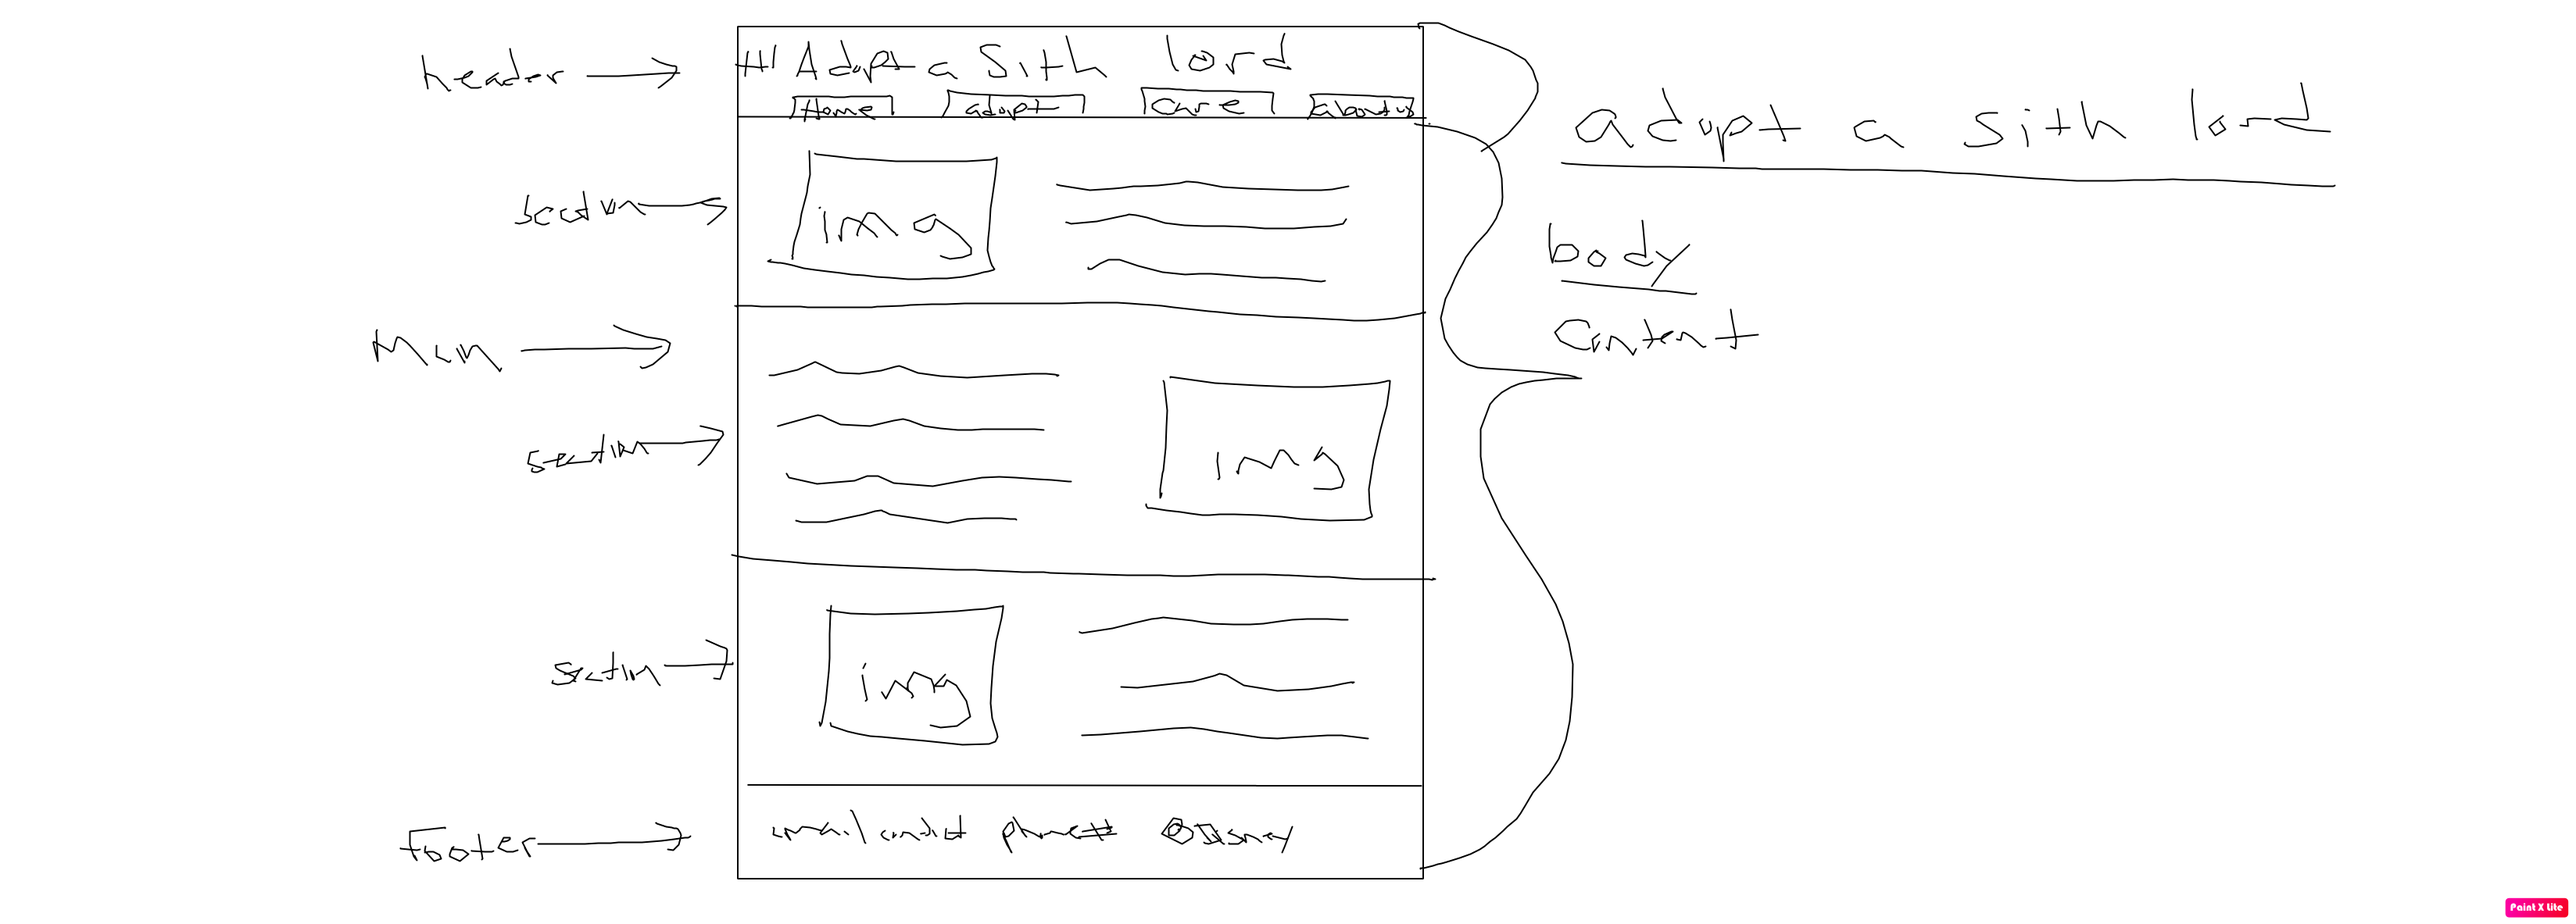
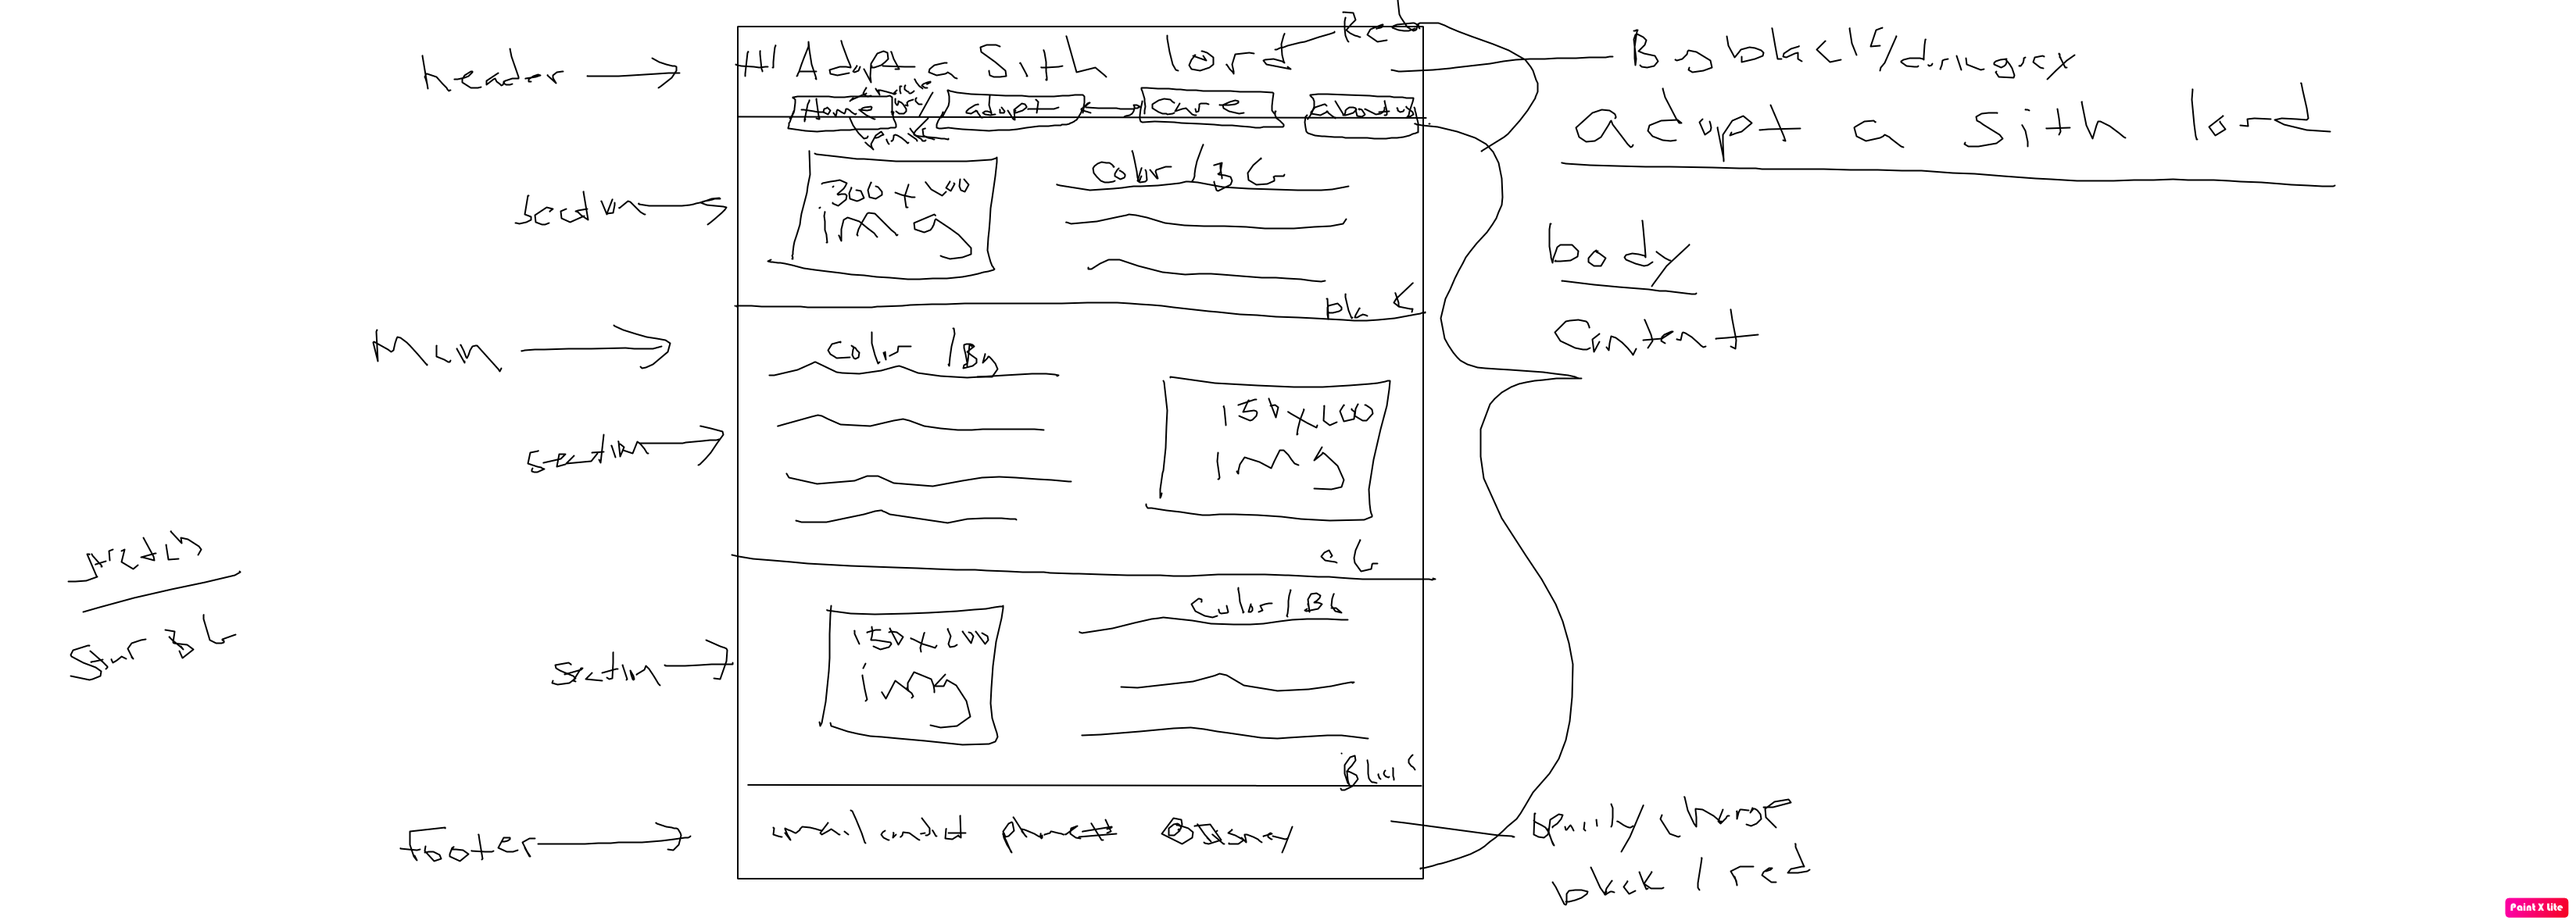
update demo with pictures and css

diff --git a/class-05/demo/adopt_sith_lord/index.html b/class-05/demo/adopt_sith_lord/index.html
@@ -9,10 +9,10 @@
             <h1>Adopt a SITH Lord</h1>
             <nav>
                 <ul>
-                    <li>Home</li>
-                    <li>Adopt a SITH</li>
-                    <li>Care for a SITH</li>
-                    <li>About Us</li>
+                    <li><a href="index.html">Home</a></li>
+                    <li><a target="_blank" href="https://starwars.fandom.com/wiki/Rule_of_Two">Adopt</a></li>
+                    <li><a target="_blank" href="https://foodportblog.herokuapp.com/how-to-be-a-healthy-sith-lord/">Care</a></li>
+                    <li><a target="_blank" href="https://starwars.fandom.com/wiki/Order_of_the_Sith_Lords">About Us</a></li>
                 </ul>
             </nav>
         </header>
@@ -24,20 +24,20 @@
                 </p>
             </section>
             <section>
-                <img class="sith" src="https://place-hold.it/150x200">
                 <p>
                     Lucas ipsum dolor sit amet er'kit c'baoth mccool rebo aruzan bria thennqora daala fel monkey-lizard. Latter kir tarasin bossk trianii jin'ha karrde brak. Geonosian aka bane endor noa omwati gavyn yoda fett. P'w'eck yavin rahn solo yavin gand saché wessell t88. Fel boz kamino ziro oola anakin jobal. Yaddle droopy mccool cliegg jinn ferroans gado. Bollux endor lumiya omas bail grievous. Dantooine utai skywalker shi'ido. Kathol meridian sern jeremoch asajj yoda mace jobal nal. Ponda choka lepi sio darth quadrinaros rendar hypori.
                 </p>
+                <img id="revan" class="sith" src="https://miro.medium.com/max/700/0*vWBWvT2PNLDKsKvn.jpg">
             </section>
             <section>
-                <img class="sith" src="https://place-hold.it/150x200">
+                <img id="malgus" class="sith" src="https://technabob.com/blog/wp-content/uploads/2013/05/darth-malgus-star-wars-costume-by-darth-serberus.jpg">
                 <p>
                     Lucas ipsum dolor sit amet er'kit c'baoth mccool rebo aruzan bria thennqora daala fel monkey-lizard. Latter kir tarasin bossk trianii jin'ha karrde brak. Geonosian aka bane endor noa omwati gavyn yoda fett. P'w'eck yavin rahn solo yavin gand saché wessell t88. Fel boz kamino ziro oola anakin jobal. Yaddle droopy mccool cliegg jinn ferroans gado. Bollux endor lumiya omas bail grievous. Dantooine utai skywalker shi'ido. Kathol meridian sern jeremoch asajj yoda mace jobal nal. Ponda choka lepi sio darth quadrinaros rendar hypori.
                 </p>
             </section>
         </main>
         <footer>
-            <p>&copy; Disney and Codefellows Email and Phone number go here</p>
+            <p>&copy; Disney and Codefellows</p>
         </footer>
     </body>
 </html>

diff --git a/class-05/demo/adopt_sith_lord/styles.css b/class-05/demo/adopt_sith_lord/styles.css
@@ -14,21 +14,29 @@ li {
     padding: 10px;
     margin: 5px 40px;
     background-color: rgb(66, 64, 64);
-    color: rgb(216, 59, 106);
+    color:inherit;
+    text-decoration: none;
 }
 
 section {
     background-color: darkgray;
     border: 1px red solid;
     margin: 10px 0px;
+    
 }
 
 img {
     border: solid black 1px;
+    margin: 10px;
+    text-align: center;
 }
 
 #lords {
     width: 300px;
+}
+
+#revan, #malgus {
+    height: 200px;
 }
 
 .sith{
@@ -40,5 +48,9 @@ p {
     display: inline-block;
     width: 700px;
     margin-top: auto;
-    margin-bottom: auto;
+    padding: 5px;
+}
+
+a {
+    color: rgb(216, 59, 106);
 }

diff --git a/class-05/demo/adopt_sith_lord/README.md b/class-05/demo/adopt_sith_lord/README.md
@@ -1,2 +1,6 @@
 # adopt_sith_lord
 Website about how to adopt  Sith Lord
+
+# Contributions
+
+Found style at w3 schools website
